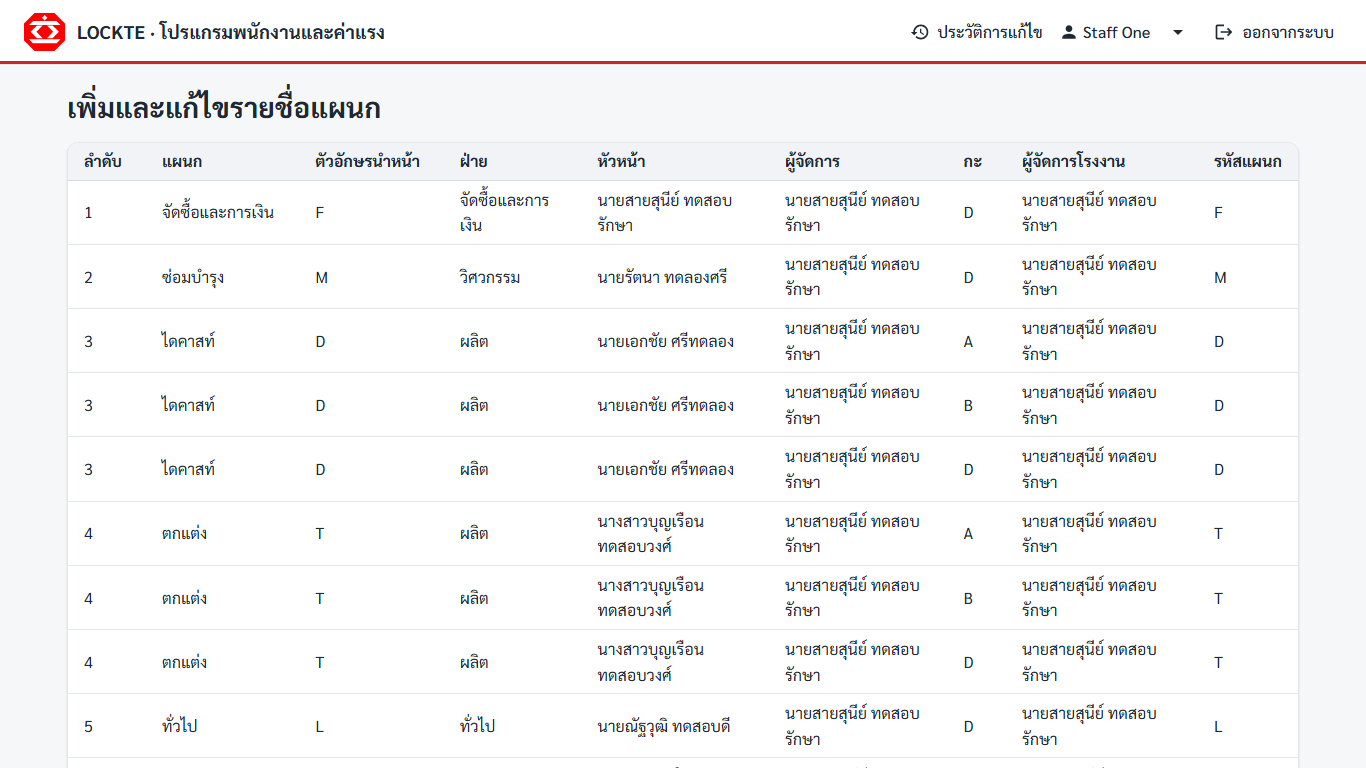
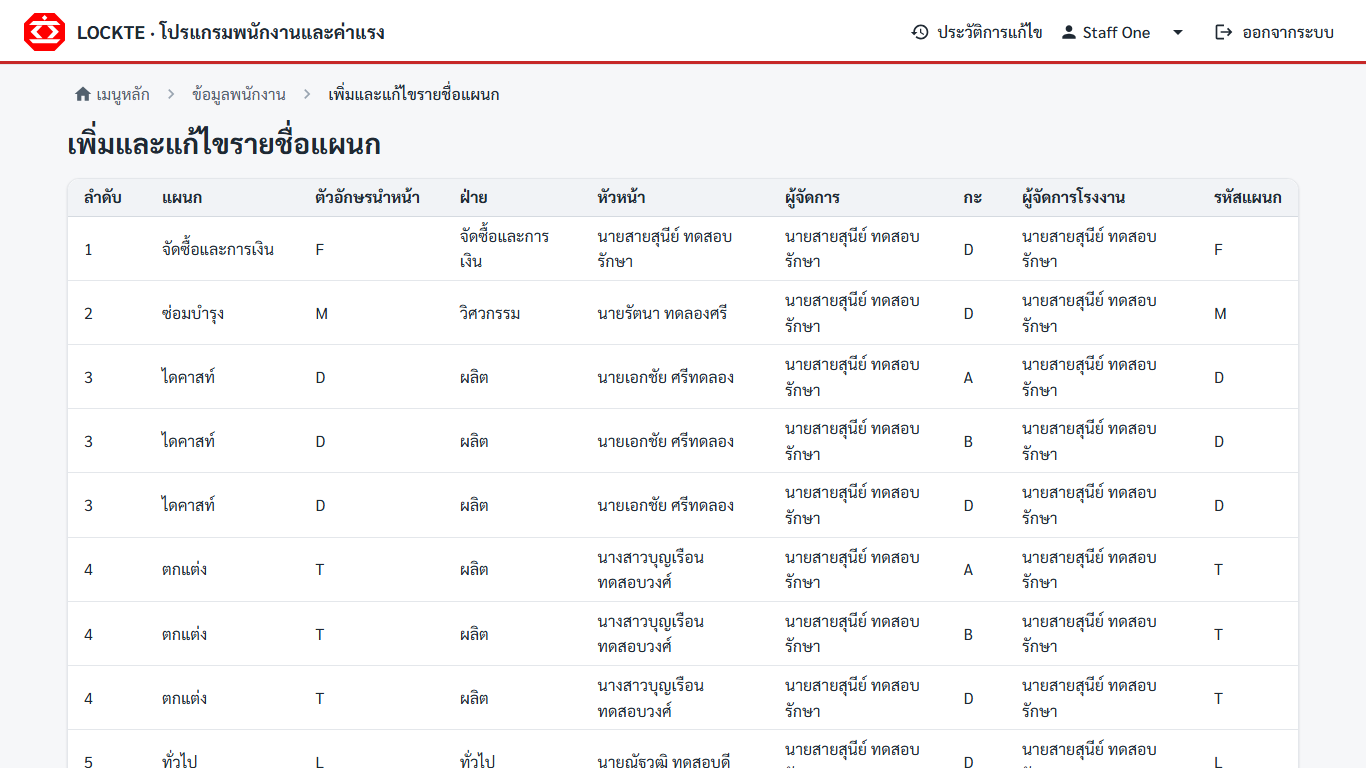
แถบตำแหน่งปัจจุบัน (เมนูหลัก › เมนูย่อย › หน้านี้) ทุกหน้าของโปรแกรมพนักงาน กดกลับขั้นใดก็ได้

diff --git a/src/Lockte.Web/wwwroot/app.css b/src/Lockte.Web/wwwroot/app.css
@@ -79,6 +79,14 @@ h1:focus { outline: none; }
 /* ลิงก์ */
 .mud-link { color: var(--lk-red-dark); }
 
+/* ตำแหน่งปัจจุบัน (เมนูหลัก › เมนูย่อย › หน้านี้) */
+.menu-trail { display: flex; flex-wrap: wrap; align-items: center; gap: .15rem .35rem; margin: -.5rem 0 1rem; font-size: .975rem; }
+.menu-trail a { color: var(--lk-muted); text-decoration: none; padding: .1rem .35rem; border-radius: 6px; }
+.menu-trail a:hover { color: var(--lk-red-dark); background: var(--lk-red-tint); }
+.menu-trail .menu-trail-sep { color: #9AA5B1; }
+.menu-trail .menu-trail-home { vertical-align: -.2em; margin-right: .25rem; }
+.menu-trail .menu-trail-here { font-weight: 500; color: var(--lk-ink); padding: .1rem .35rem; }
+
 /* เมนูหลัก/เมนูย่อย: การ์ดเรียงตามลำดับเดิม (ซ้ายไปขวา บนลงล่าง) ปุ่ม "กลับ" กินทั้งแถว */
 .menu-page { max-width: 780px; margin: 0 auto; text-align: center; }
 .menu-logo { height: 96px; margin-bottom: .75rem; }

diff --git a/src/Lockte.Web/Menus/EmployeeMenu.cs b/src/Lockte.Web/Menus/EmployeeMenu.cs
@@ -23,6 +23,9 @@ public sealed record MenuPage(int Number, string Title, int? Back, IReadOnlyList
 /// </summary>
 public static class EmployeeMenu
 {
+    /// <summary>One step of the "you are here" trail; <see cref="Href"/> is null on the current page.</summary>
+    public sealed record Crumb(string Text, string? Href);
+
     public const int Main = 1;
 
     public static string HrefOf(int number) => number == Main ? "" : $"menu/{number}";
@@ -164,4 +167,37 @@ public static class EmployeeMenu
             .Where(x => string.Equals(x.Item.Code, code, StringComparison.OrdinalIgnoreCase))
             .Select(x => ((MenuPage, MenuItem)?)(x.Page, x.Item))
             .FirstOrDefault();
+
+    /// <summary>
+    /// "You are here" for a page path relative to the site root (no leading slash): เมนูหลัก → … → the menu item, following
+    /// each menu's "กลับเมนูเดิม" up to the main menu. A path below a menu item's page (an employee's own screen) belongs to
+    /// that item. A path that is on no menu (ประวัติการแก้ไข) gets no trail.
+    /// </summary>
+    public static IReadOnlyList<Crumb> Trail(string path)
+    {
+        path = path.Split('?', '#')[0].Trim('/');
+        MenuPage? menu = null;
+        MenuItem? item = null;
+
+        if (path.Length == 0) menu = Find(Main);
+        else if (path.StartsWith("menu/", StringComparison.OrdinalIgnoreCase) && int.TryParse(path[5..], out var n)) menu = Find(n);
+        else
+        {
+            var hit = Pages.SelectMany(p => p.Items.Where(i => i.SubMenu is null).Select(i => (Page: p, Item: i)))
+                .Where(x => path.Equals(x.Item.Href, StringComparison.OrdinalIgnoreCase)
+                    || path.StartsWith(x.Item.Href + "/", StringComparison.OrdinalIgnoreCase))
+                .OrderByDescending(x => x.Item.Href.Length)
+                .Select(x => ((MenuPage, MenuItem)?)(x.Page, x.Item))
+                .FirstOrDefault();
+            if (hit is null) return [];
+            (menu, item) = hit.Value;
+        }
+        if (menu is null) return [];
+
+        var trail = new List<Crumb>();
+        if (item is not null) trail.Add(new Crumb(item.Text, null));
+        for (var m = menu; m is not null; m = m.Back is { } b ? Find(b) : null)
+            trail.Insert(0, new Crumb(m.Title, item is null && m == menu ? null : HrefOf(m.Number)));
+        return trail;
+    }
 }

diff --git a/tests/Lockte.Web.Tests/MenuTrailTests.cs b/tests/Lockte.Web.Tests/MenuTrailTests.cs
@@ -1,0 +1,46 @@
+using Lockte.Web.Menus;
+
+namespace Lockte.Web.Tests;
+
+public sealed class MenuTrailTests
+{
+    private static string[] Texts(string path) => EmployeeMenu.Trail(path).Select(c => c.Text).ToArray();
+
+    [Fact]
+    public void Main_menu_is_the_only_step_and_is_the_current_page()
+    {
+        var trail = EmployeeMenu.Trail("");
+        Assert.Equal([new EmployeeMenu.Crumb("เมนูหลัก", null)], trail);
+    }
+
+    [Fact]
+    public void A_screen_shows_the_menus_above_it_and_links_back_to_each()
+    {
+        var trail = EmployeeMenu.Trail("hr/time/entry");
+        Assert.Equal(["เมนูหลัก", "วันอาทิตย์และวันหยุด", "เวลาทำงาน", "บันทึกเวลาทำงาน, OT, วันอาทิตย์และวันหยุด"], trail.Select(c => c.Text));
+        Assert.Equal(["", "menu/7", "menu/3", null], trail.Select(c => c.Href));
+    }
+
+    [Fact]
+    public void A_sub_menu_is_the_current_page_and_its_parents_link()
+    {
+        var trail = EmployeeMenu.Trail("menu/19");
+        Assert.Equal(["เมนูหลัก", "ข้อมูลพนักงาน", "พิมพ์หนังสือรับรอง"], trail.Select(c => c.Text));
+        Assert.Null(trail[^1].Href);
+        Assert.Equal("menu/2", trail[1].Href);
+    }
+
+    [Fact]
+    public void A_page_below_a_menu_item_belongs_to_that_item_and_the_exact_item_wins()
+    {
+        Assert.Equal("แก้ไขข้อมูลพนักงาน", Texts("hr/employees/12/kor2")[^1]);
+        Assert.Equal("เพิ่มข้อมูลพนักงาน", Texts("hr/employees/new")[^1]);
+    }
+
+    [Fact]
+    public void Query_string_is_ignored_and_a_page_on_no_menu_has_no_trail()
+    {
+        Assert.Equal("เลขเอกสารควบคุม", Texts("document-numbers?x=1")[^1]);
+        Assert.Empty(EmployeeMenu.Trail("history"));
+    }
+}
